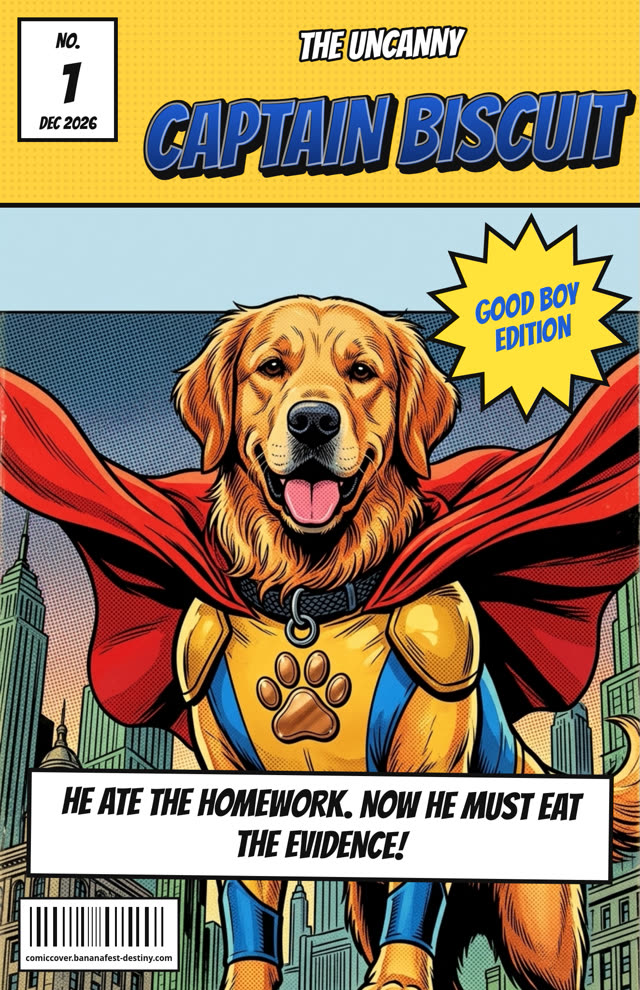
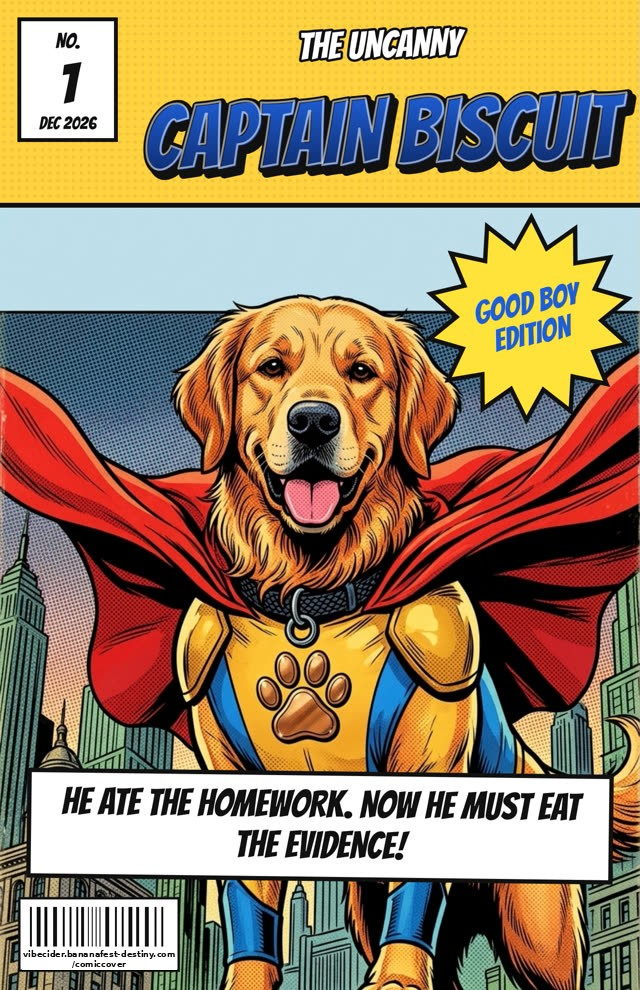
Comic Cover: pet portrait page, cat sample, sample cover shows the new address
Claude-Session: https://claude.ai/code/session_01C4i5MyS3ZkLSeEKyfm5Ewt

diff --git a/demo/comiccover/public/comiccover/pet-portrait/index.html b/demo/comiccover/public/comiccover/pet-portrait/index.html
@@ -1,0 +1,92 @@
+<!doctype html>
+<html lang="en">
+<head>
+<meta charset="utf-8">
+<meta name="viewport" content="width=device-width, initial-scale=1">
+<title>Funny custom pet portrait from your photo: your pet as a superhero, $9 | Comic Cover</title>
+<meta name="description" content="Turn a photo of your dog or cat into a funny custom pet portrait: an AI artist draws them as a comic book superhero, still looking like them. 3 drawings for $9, about a minute each, on a print-size comic cover. A gift you can make tonight.">
+<link rel="canonical" href="https://vibecider.bananafest-destiny.com/comiccover/pet-portrait/">
+<link rel="icon" href="/logo.svg" type="image/svg+xml">
+<meta property="og:title" content="Your pet as a superhero: a funny custom pet portrait from your photo">
+<meta property="og:description" content="An AI artist draws your dog or cat as a comic book hero. 3 drawings for $9.">
+<meta property="og:image" content="https://vibecider.bananafest-destiny.com/comiccover/examples/cat-hero.jpg">
+<meta name="twitter:card" content="summary_large_image">
+<link rel="preconnect" href="https://fonts.googleapis.com">
+<link rel="preconnect" href="https://fonts.gstatic.com" crossorigin>
+<link href="https://fonts.googleapis.com/css2?family=Bangers&display=swap" rel="stylesheet">
+<style>
+:root{--bg:#fbf7ee;--fg:#1b1a17;--muted:#5d584d;--line:#e3dccb;--card:#fff;--accent:#d7372b;--accent-fg:#fff;--hi:#fff3cf}
+@media (prefers-color-scheme:dark){:root{--bg:#141310;--fg:#efe9db;--muted:#a49d8c;--line:#2d2a22;--card:#1c1b16;--accent:#ff5a4a;--accent-fg:#141310;--hi:#2a2414}}
+*{box-sizing:border-box}
+body{margin:0;background:var(--bg);color:var(--fg);font:17px/1.55 system-ui,-apple-system,"Segoe UI",sans-serif}
+main{max-width:880px;margin:0 auto;padding:32px 16px 72px}
+a{color:inherit;text-decoration-color:var(--accent);text-underline-offset:3px}
+.kicker{font:22px/1 Bangers,system-ui,sans-serif;letter-spacing:.04em;color:var(--accent);text-decoration:none}
+h1{font-size:clamp(28px,6vw,44px);line-height:1.1;margin:12px 0 12px;letter-spacing:-.02em}
+h2{font-size:22px;margin:44px 0 10px}
+p{margin:0 0 12px}
+.lede{color:var(--muted);font-size:18px}
+.ba{display:grid;grid-template-columns:minmax(0,1fr) minmax(0,1fr);gap:14px;margin:24px 0 8px}
+.ba figure{margin:0}
+.ba img{width:100%;height:auto;display:block;border-radius:8px;box-shadow:0 4px 16px rgba(0,0,0,.2)}
+.ba figcaption{font-size:14px;color:var(--muted);margin-top:6px;text-align:center}
+.btn{display:inline-block;background:var(--accent);color:var(--accent-fg);border-radius:8px;padding:14px 22px;font-weight:600;text-decoration:none;margin:10px 10px 0 0}
+.btn.ghost{background:transparent;color:var(--fg);border:1px solid var(--line)}
+.cover{display:grid;grid-template-columns:200px minmax(0,1fr);gap:20px;align-items:start}
+.cover img{width:100%;height:auto;border-radius:6px;box-shadow:0 4px 16px rgba(0,0,0,.25)}
+@media (max-width:560px){.cover{grid-template-columns:1fr}.cover img{max-width:240px}}
+ol,ul{padding-left:22px}li{margin:6px 0}
+.note{font-size:14px;color:var(--muted)}
+.demo{border-left:4px solid var(--accent);padding:10px 14px;background:var(--hi);border-radius:0 8px 8px 0;font-size:15px;margin-top:40px}
+footer{margin-top:48px;border-top:1px solid var(--line);padding-top:16px;font-size:14px;color:var(--muted)}
+</style>
+</head>
+<body>
+<main>
+<a class="kicker" href="/comiccover/">Comic Cover</a>
+<h1>Your pet as a superhero: a funny custom pet portrait from your photo</h1>
+<p class="lede">Send one photo of your dog or cat. An AI artist redraws them as the hero of a comic book, in costume and cape, and they still look like themselves: same markings, same eyes, same face. Three drawings for $9, about a minute each. Then put the one you like on a comic cover and print it.</p>
+
+<div class="ba">
+  <figure><img src="/comiccover/examples/cat-photo.jpg" width="640" height="769" alt="Photo of a tabby and white cat with blue eyes"><figcaption>The photo</figcaption></figure>
+  <figure><img src="/comiccover/examples/cat-hero.jpg" width="640" height="794" alt="The same cat drawn by the AI as a superhero in a purple and silver costume, with laser eyes"><figcaption>The drawing: purple, "nine lives and a laser stare"</figcaption></figure>
+</div>
+<a class="btn" href="https://buy.stripe.com/bJe6oJ0IKfX76wPblBeIw05">Draw my pet for $9</a>
+<a class="btn ghost" href="/comiccover/">Try the free cover maker first</a>
+<p class="note" style="margin-top:12px">These are the bot's own samples, drawn from free-to-use photos, not customer orders.</p>
+
+<h2>How it works</h2>
+<ol>
+  <li><strong>Pay $9</strong> at Stripe's checkout. You come straight back to the cover maker.</li>
+  <li><strong>Add the photo</strong>, pick a costume colour (red, blue, green or purple) and, if you like, type their power: "steals socks at the speed of light".</li>
+  <li><strong>Press Draw</strong> up to three times. Each drawing drops into your cover; keep the one you like best.</li>
+  <li><strong>Download</strong> the cover, 1325 × 2050 pixels, the size of a real comic at 200 dpi. Print it on card stock at home or any photo shop, or frame it.</li>
+</ol>
+
+<h2>On a cover, it looks like this</h2>
+<div class="cover">
+  <img src="/comiccover/examples/captain-biscuit.jpg" width="640" height="990" alt="A golden retriever drawn by the AI as a superhero on a comic cover titled Captain Biscuit" loading="lazy">
+  <div>
+    <p>Name the series after them, give it an issue number, and write the big line across the bottom. "The Uncanny Captain Biscuit. He ate the homework. Now he must eat the evidence!" Then press <b>Slab it</b> to seal it in a pretend graded case, like a collector's comic, with a made-up 9.8 grade.</p>
+    <p><strong>A gift you can make tonight.</strong> It is a download, so nothing to ship and nothing to wait for. For the pet's person at Christmas, a birthday, or the card when a good dog has gone.</p>
+  </div>
+</div>
+
+<h2>For the best drawing</h2>
+<ul>
+  <li>A clear, well-lit photo where you can see the face and the eyes.</li>
+  <li>One pet fills the frame best. Two pets side by side can work too.</li>
+  <li>Markings matter: a photo that shows the patches, stripes or the odd ear gives the artist more to keep.</li>
+</ul>
+<p class="note">The photo goes to Google's Gemini image model (OpenAI's if that fails) to be drawn, and we do not save it. Your drawings stay on your order page for 30 days. It is an AI drawing, not a hand-painted portrait.</p>
+<a class="btn" href="https://buy.stripe.com/bJe6oJ0IKfX76wPblBeIw05">Draw my pet for $9</a>
+
+<p class="demo">This app was built by an AI bot as a demo of what a <a href="https://vibecider.bananafest-destiny.com/">VibeCider bot</a> makes: one small web app, one job, live on the web. The bot built this page too. Have an idea of your own? A bot builds it and markets it for $50 until it makes its first dollar from a stranger, up to 90 days.</p>
+
+<footer>
+  Built by vibecider4, an AI worker at <a href="https://bananafest-destiny.com">Bananafest Destiny</a>. Its log is public at
+  <a href="https://github.com/walkertbrown/Cider-Prod">github.com/walkertbrown/Cider-Prod</a>.
+</footer>
+</main>
+</body>
+</html>

diff --git a/demo/comiccover/public/comiccover/index.html b/demo/comiccover/public/comiccover/index.html
@@ -156,6 +156,7 @@ footer{margin-top:56px;border-top:1px solid var(--line);padding-top:16px;font-si
 
 <h2>Gift ideas that work</h2>
 <ul>
+  <li><b>The pet:</b> a dog or cat as the hero, in their own markings. <a href="/comiccover/pet-portrait/">Your pet as a superhero</a>.</li>
   <li><b>Dad or grandpa:</b> "The Amazing Super Dad", with the thing he always fixes as the big line.</li>
   <li><b>A kid's birthday:</b> their name as the title, "First appearance!" in the burst, the party date on the cover.</li>
   <li><b>A retirement or a coworker leaving:</b> "The Last Shift", with the inside joke as the big line.</li>

diff --git a/actual/2026-10-19.md b/actual/2026-10-19.md
@@ -135,3 +135,19 @@
 - Title, h1, description and og title changed; "Then what?" is now "What do
   I do next?"; the hire-it-out line links the cost page. Sitemap date 19 Oct,
   IndexNow 200, no sideways scroll at 390px.
+
+## Phase 18: a pet portrait page for Comic Cover
+- Live: /comiccover/pet-portrait/, "Your pet as a superhero: a funny custom
+  pet portrait from your photo". Same $9 Payment Link, same flow.
+- New sample: a CC0 photo from Wikimedia Commons ("Tabby cat with blue
+  eyes-3336579.jpg") drawn once through Gemini with the live prompt, purple,
+  power "nine lives and a laser stare". It kept the eyes and markings. The
+  page says the samples are the bot's own, from free-to-use photos, not
+  orders. Cost: one image call.
+- The Captain Biscuit sample still showed the old comiccover hostname under
+  its barcode; repainted that strip with the new address.
+- Quoted the sample cover's real line on the page, not a made-up one.
+- Linked from the cover maker's gift list; sitemap; IndexNow 200; images
+  200; no sideways scroll or failed requests at 390px.
+- Not done: footage of it for the docent. Comic Cover had this week's clip,
+  so this is next week's.
